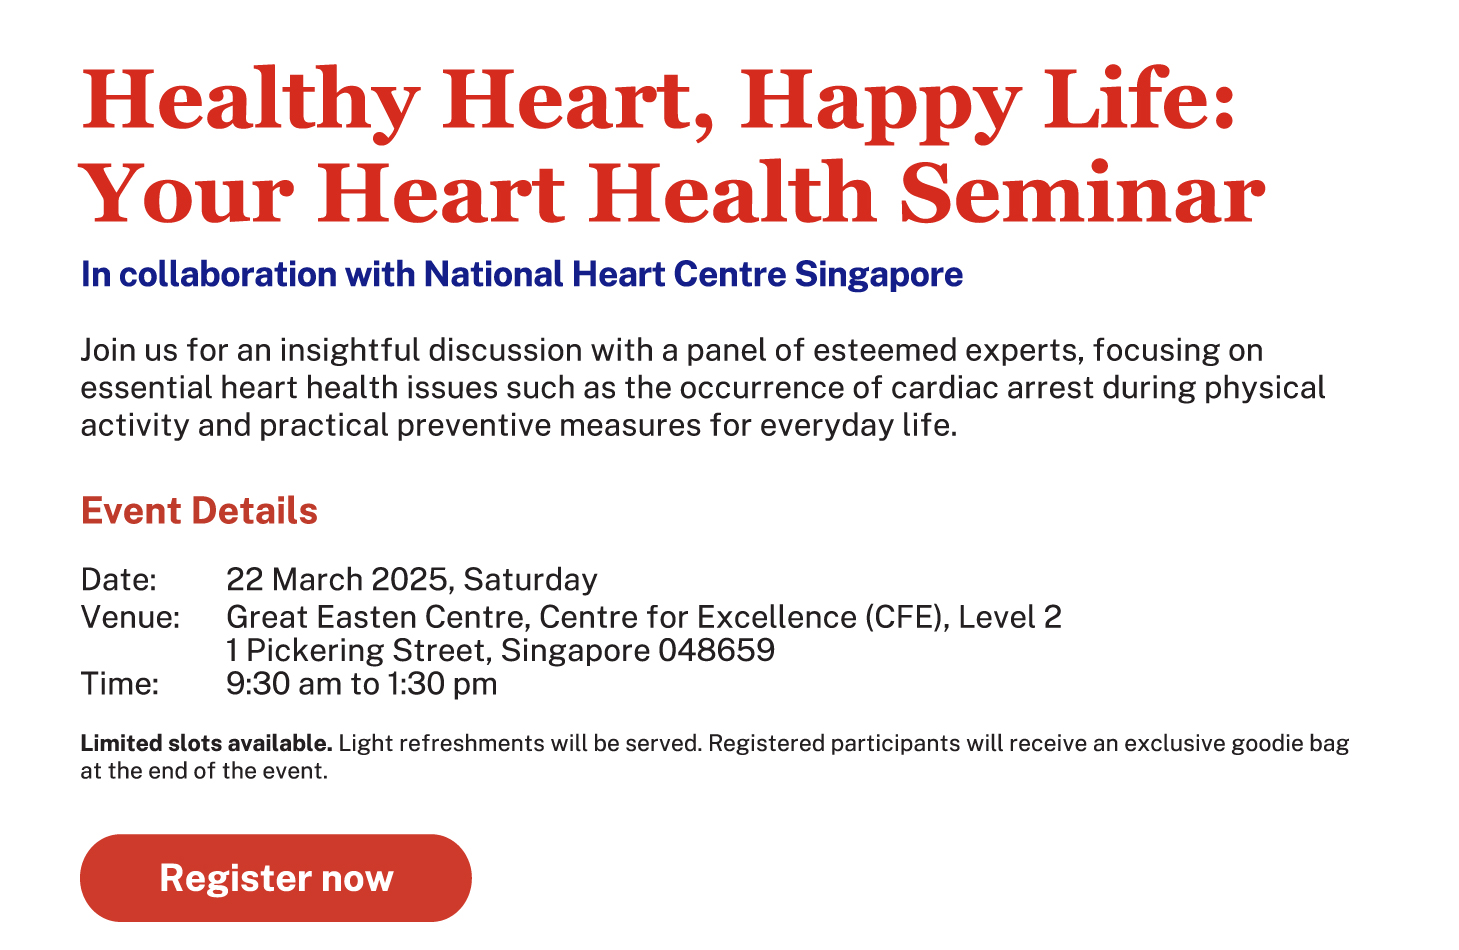
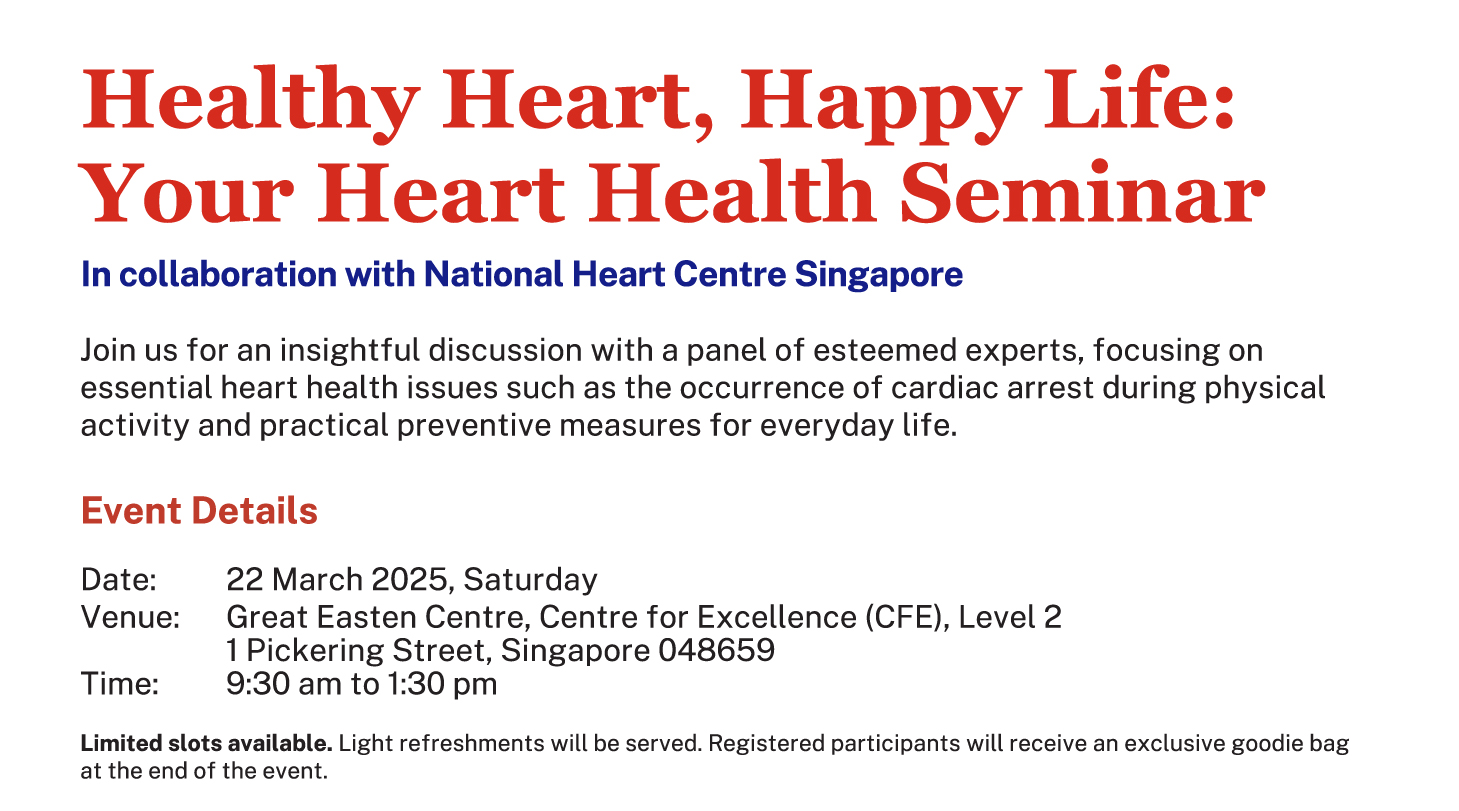
updated image slice and fixed errors

Changed region(s): [[0.0308, 0.0617, 0.9253, 0.5549], [0.0308, 0.5857, 0.9253, 0.9864]]

diff --git a/GREAT EASTERN/GE Rewards Health/GEHH_04/GEHH-EDM4.html b/GREAT EASTERN/GE Rewards Health/GEHH_04/GEHH-EDM4.html
@@ -354,7 +354,7 @@
 								<!-- LOGO HEADER -->
 								<tr>
 									<td class="fluid-img">
-										<img src="images/header.jpg" width="700" border="0" alt="GE Logo Header" />
+										<img src="images/header.png" width="700" border="0" alt="GE Logo Header" />
 									</td>
 								</tr>
 								<!-- END LOGO HEADER -->
@@ -373,14 +373,23 @@
 								<!-- TITLE AND INTRO PARAGRAPH -->
 								<tr>
 									<td class="fluid-img" style="font-size:0pt; line-height:0pt; text-align:left;">
-										<a href="https://upgreatsg-web.app.link/e/2025/health-heart-happy-life/event"
-											target="_blank">
-											<img src="images/intro-text.jpg" width="700" border="0"
-												alt="Healthy Heart, Happy Life: Your Heart Health Seminar Details with Register Now CTA" />
-										</a>
+										<img src="images/intro-text.jpg" width="700" border="0"
+											alt="Healthy Heart, Happy Life: Your Heart Health Seminar Details" />
 									</td>
 								</tr>
 								<!-- END TITLE AND INTRO PARAGRAPH -->
+
+								<!-- REGISTER NOW CTA -->
+								<tr>
+									<td class="fluid-img" style="font-size:0pt; line-height:0pt; text-align:left;">
+										<a href="https://upgreatsg-web.app.link/e/2025/health-heart-happy-life/event"
+											target="_blank">
+											<img src="images/register-now.jpg" width="700" border="0"
+												alt="Register Now CTA" />
+										</a>
+									</td>
+								</tr>
+								<!-- END REGISTER NOW CTA -->
 
 
 
@@ -397,15 +406,23 @@
 								<!-- PERKS -->
 								<tr>
 									<td class="fluid-img" bgcolor="#ffffff">
-										<a href="https://upgreatsg-web.app.link/e/2025/health-heart-happy-life/event"
-											target="_blank">
-											<img src="images/perks.jpg" width="700" border="0"
-												alt="Exciting on-site activities for better heart health with Register Now CTA" />
-
-										</a>
+										<img src="images/perks.jpg" width="700" border="0"
+											alt="Exciting on-site activities for better heart health" />
 									</td>
 								</tr>
 								<!-- END PERKS -->
+
+								<!-- REGISTER NOW CTA -->
+								<tr>
+									<td class="fluid-img" style="font-size:0pt; line-height:0pt; text-align:left;">
+										<a href="https://upgreatsg-web.app.link/e/2025/health-heart-happy-life/event"
+											target="_blank">
+											<img src="images/register-now.jpg" width="700" border="0"
+												alt="Register Now CTA" />
+										</a>
+									</td>
+								</tr>
+								<!-- END REGISTER NOW CTA -->
 
 
 								<!-- FOOTER -->
